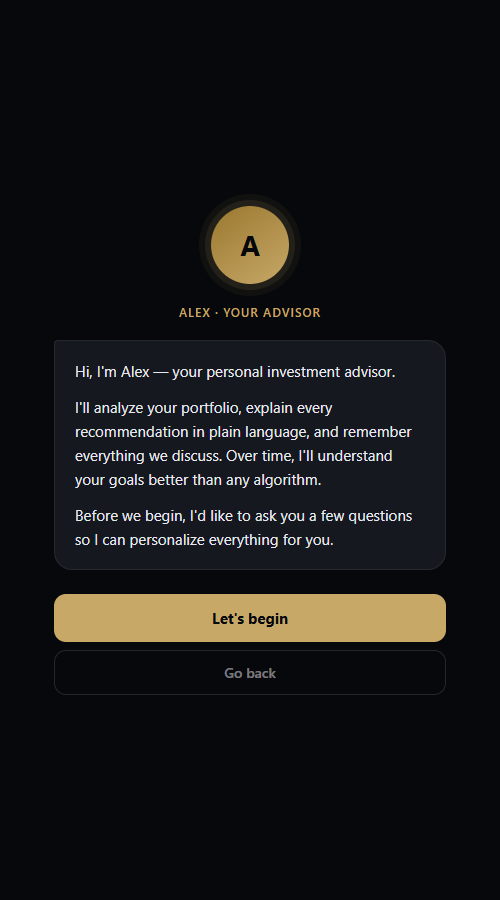
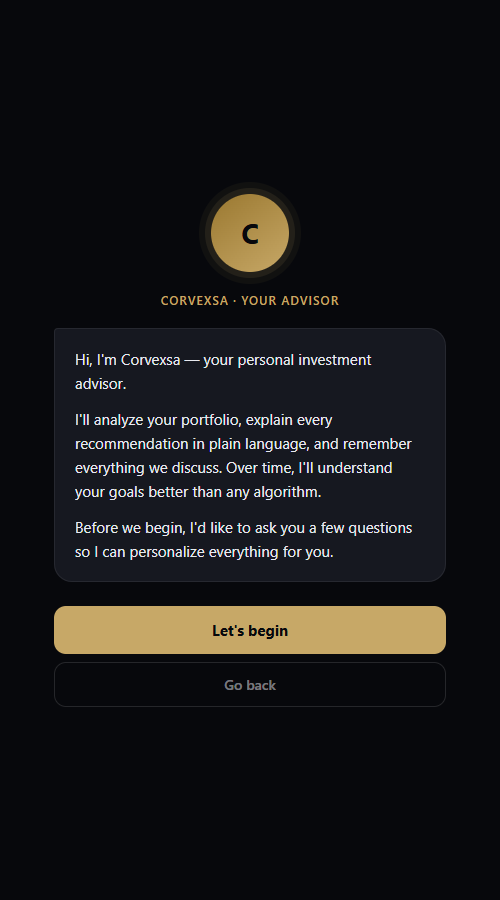
Fix analysis vanishing after run: use strong consistency for Netlify Blobs reads
Blobs reads are eventually consistent by default, so loadAll()'s
read-after-write of the just-stored analysis could return stale null and
re-render the empty state over the fresh results.

Changed region(s): [[0.15, 0.1867, 0.84, 0.6222], [0.09, 0.6533, 0.9, 0.7778], [0.57, 0.2489, 0.6, 0.28]]

diff --git a/promo/tools/compose-music.js b/promo/tools/compose-music.js
@@ -1,0 +1,125 @@
+// Synthesizes the background music bed as a stereo 16-bit WAV — no samples,
+// no downloads, fully rights-free. A minimal dark-electronic progression:
+// warm detuned pads (Am–F–C–G), a soft sub bass, four-on-the-floor kick and
+// offbeat hats. Drums enter with scene 2 and drop out at the CTA so the
+// closing card breathes. Ducking under the voiceover happens later in ffmpeg.
+const fs = require('fs');
+const path = require('path');
+
+const PROMO = path.join(__dirname, '..');
+const timeline = JSON.parse(fs.readFileSync(path.join(PROMO, 'timeline.json'), 'utf8'));
+
+const SR = 44100;
+const TOTAL = timeline.total;
+const N = Math.ceil(TOTAL * SR);
+const BPM = 100;
+const BEAT = 60 / BPM;          // 0.6s
+const BAR = BEAT * 4;           // 2.4s
+
+const drumsIn = timeline.scenes[1].start;                       // "meet"
+const drumsOut = timeline.scenes[timeline.scenes.length - 1].start; // CTA
+
+// chord = { bass, pad: [freqs] } — Am, F, C, G
+const PROG = [
+  { bass: 110.00, pad: [220.00, 261.63, 329.63] },
+  { bass: 87.31,  pad: [174.61, 220.00, 261.63] },
+  { bass: 130.81, pad: [261.63, 329.63, 392.00] },
+  { bass: 98.00,  pad: [196.00, 246.94, 293.66] },
+];
+
+const L = new Float64Array(N);
+const R = new Float64Array(N);
+const TAU = Math.PI * 2;
+
+function addTone(buf, freq, t0, dur, gain, attack, release, detune) {
+  const s0 = Math.max(0, Math.floor(t0 * SR));
+  const s1 = Math.min(N, Math.ceil((t0 + dur) * SR));
+  const f2 = freq * (detune || 1.0);
+  for (let s = s0; s < s1; s++) {
+    const t = s / SR - t0;
+    let env = 1;
+    if (t < attack) env = t / attack;
+    else if (t > dur - release) env = Math.max(0, (dur - t) / release);
+    const ph = s / SR;
+    buf[s] += gain * env * (Math.sin(TAU * freq * ph) + 0.4 * Math.sin(TAU * f2 * ph) + 0.18 * Math.sin(TAU * freq * 2 * ph));
+  }
+}
+
+function addKick(t0, gain) {
+  const s0 = Math.floor(t0 * SR);
+  const dur = 0.16;
+  const s1 = Math.min(N, Math.ceil((t0 + dur) * SR));
+  for (let s = s0; s < s1; s++) {
+    const t = s / SR - t0;
+    const freq = 42 + 78 * Math.exp(-t * 38);      // pitch sweep 120 -> 42 Hz
+    const env = Math.exp(-t * 26);
+    const v = gain * env * Math.sin(TAU * freq * t);
+    L[s] += v; R[s] += v;
+  }
+}
+
+let hatSeed = 1;
+function rand() { hatSeed = (hatSeed * 1103515245 + 12345) & 0x7fffffff; return hatSeed / 0x7fffffff - 0.5; }
+function addHat(t0, gain) {
+  const s0 = Math.floor(t0 * SR);
+  const dur = 0.05;
+  const s1 = Math.min(N, Math.ceil((t0 + dur) * SR));
+  let prev = 0;
+  for (let s = s0; s < s1; s++) {
+    const t = s / SR - t0;
+    const white = rand();
+    const hp = white - prev; prev = white;          // crude one-pole highpass
+    const env = Math.exp(-t * 90);
+    const v = gain * env * hp * 2;
+    L[s] += v * 0.8; R[s] += v * 1.2;               // hats sit slightly right
+  }
+}
+
+// ── pads + bass, bar by bar ─────────────────────────────
+const nBars = Math.ceil(TOTAL / BAR);
+for (let bar = 0; bar < nBars; bar++) {
+  const t0 = bar * BAR;
+  const ch = PROG[bar % PROG.length];
+  // pad triad: root/left, fifth/left, third/right for width
+  addTone(L, ch.pad[0], t0, BAR + 0.4, 0.055, 0.5, 0.7, 1.004);
+  addTone(L, ch.pad[2], t0, BAR + 0.4, 0.042, 0.6, 0.7, 0.997);
+  addTone(R, ch.pad[1], t0, BAR + 0.4, 0.055, 0.5, 0.7, 1.003);
+  addTone(R, ch.pad[0] * 2, t0, BAR + 0.4, 0.020, 0.9, 0.8, 1.005);
+  // sub bass, both channels, gentle pulse on each beat
+  for (let b = 0; b < 4; b++) {
+    addTone(L, ch.bass, t0 + b * BEAT, BEAT * 0.96, 0.075, 0.02, 0.12, 1.0);
+    addTone(R, ch.bass, t0 + b * BEAT, BEAT * 0.96, 0.075, 0.02, 0.12, 1.0);
+  }
+}
+
+// ── drums, only between drumsIn and drumsOut ────────────
+for (let t = Math.ceil(drumsIn / BEAT) * BEAT; t < Math.min(drumsOut, TOTAL); t += BEAT) {
+  addKick(t, 0.34);
+  addHat(t + BEAT / 2, 0.055);
+}
+
+// ── global envelope: fade in, ease drum entry, fade out ──
+for (let s = 0; s < N; s++) {
+  const t = s / SR;
+  let g = 1;
+  if (t < 1.2) g *= t / 1.2;
+  if (t > TOTAL - 3.0) g *= Math.max(0, (TOTAL - t) / 3.0);
+  L[s] *= g; R[s] *= g;
+}
+
+// ── soft-clip safety + write WAV ─────────────────────────
+const pcm = Buffer.alloc(N * 4);
+for (let s = 0; s < N; s++) {
+  const l = Math.tanh(L[s] * 1.1);
+  const r = Math.tanh(R[s] * 1.1);
+  pcm.writeInt16LE(Math.round(l * 32767 * 0.9), s * 4);
+  pcm.writeInt16LE(Math.round(r * 32767 * 0.9), s * 4 + 2);
+}
+const header = Buffer.alloc(44);
+header.write('RIFF', 0); header.writeUInt32LE(36 + pcm.length, 4); header.write('WAVE', 8);
+header.write('fmt ', 12); header.writeUInt32LE(16, 16); header.writeUInt16LE(1, 20);
+header.writeUInt16LE(2, 22); header.writeUInt32LE(SR, 24); header.writeUInt32LE(SR * 4, 28);
+header.writeUInt16LE(4, 32); header.writeUInt16LE(16, 34);
+header.write('data', 36); header.writeUInt32LE(pcm.length, 40);
+fs.writeFileSync(path.join(PROMO, 'music.wav'), Buffer.concat([header, pcm]));
+console.log(`music.wav written: ${TOTAL.toFixed(1)}s, drums ${drumsIn.toFixed(1)}s -> ${drumsOut.toFixed(1)}s`);

diff --git a/promo/timeline.js b/promo/timeline.js
@@ -1,7 +1,7 @@
 window.TIMELINE = {
   "width": 1280,
   "height": 720,
-  "total": 73.036,
+  "total": 44.942,
   "scenes": [
     {
       "id": "hook",
@@ -10,10 +10,10 @@ window.TIMELINE = {
       "imageStyle": "none",
       "headline": "Who watches your portfolio?",
       "sub": "Most investors are on their own. You don't have to be.",
-      "voiceover": "What if a personal wealth advisor watched your portfolio around the clock, and told you exactly why every move matters?",
+      "voiceover": "What if a personal wealth advisor watched your portfolio around the clock?",
       "start": 0,
-      "end": 9.012,
-      "voStart": 0.6
+      "end": 5.342,
+      "voStart": 0.45
     },
     {
       "id": "meet",
@@ -21,12 +21,12 @@ window.TIMELINE = {
       "image": "welcome.png",
       "imageStyle": "wide",
       "kicker": "Introducing",
-      "headline": "Meet AlyInvest",
+      "headline": "Meet Corvexsa",
       "sub": "Your personal AI investment advisor",
-      "voiceover": "Meet AlyInvest. Your personal AI investment advisor. Calm, precise, and entirely on your side.",
-      "start": 8.512,
-      "end": 19.348,
-      "voStart": 9.112
+      "voiceover": "Meet Corvexsa — your personal AI investment advisor.",
+      "start": 4.892,
+      "end": 9.826,
+      "voStart": 5.342
     },
     {
       "id": "connect",
@@ -36,10 +36,10 @@ window.TIMELINE = {
       "kicker": "Your money stays yours",
       "headline": "Read-only. Always.",
       "sub": "Never holds funds. Never executes trades. Only advises.",
-      "voiceover": "Connect your broker in seconds. Read-only, always. AlyInvest never touches your money. It watches, and it advises.",
-      "start": 18.848,
-      "end": 31.604,
-      "voStart": 19.448
+      "voiceover": "Connect your broker in seconds. Read-only, always — Corvexsa never touches your money.",
+      "start": 9.376,
+      "end": 16.782,
+      "voStart": 9.826
     },
     {
       "id": "analysis",
@@ -48,11 +48,11 @@ window.TIMELINE = {
       "imageStyle": "wide",
       "kicker": "Every 24 hours",
       "headline": "A deep review, daily",
-      "sub": "Clear buy, hold, or trim guidance — with the reasoning behind it",
-      "voiceover": "Every twenty-four hours, AlyInvest reviews everything you hold. Clear buy, hold, or trim calls, with share quantities, confidence scores, and plain-language reasoning.",
-      "start": 31.104,
-      "end": 44.82,
-      "voStart": 31.704
+      "sub": "Clear buy, hold, or trim calls — with the reasoning behind them",
+      "voiceover": "Every twenty-four hours, a deep review: clear buy, hold, or trim calls, with exact quantities and the reasoning.",
+      "start": 16.332,
+      "end": 24.914,
+      "voStart": 16.782
     },
     {
       "id": "alerts",
@@ -62,10 +62,10 @@ window.TIMELINE = {
       "kicker": "Always watching",
       "headline": "Vigilance, delivered",
       "sub": "Opportunities surfaced. Risks flagged early.",
-      "voiceover": "AlyInvest scans the market for what you might otherwise miss, and alerts your phone when something material changes.",
-      "start": 44.32,
-      "end": 53.308,
-      "voStart": 44.92
+      "voiceover": "It scans the market, and alerts your phone the moment something material changes.",
+      "start": 24.464,
+      "end": 30.334,
+      "voStart": 24.914
     },
     {
       "id": "conversation",
@@ -75,23 +75,23 @@ window.TIMELINE = {
       "kicker": "No dashboards to decode",
       "headline": "One conversation",
       "sub": "An advisor that remembers you, your goals, your preferences",
-      "voiceover": "No dashboards to decode. Just one conversation with an advisor who remembers your goals, like texting your own wealth manager.",
-      "start": 52.808,
-      "end": 63.452,
-      "voStart": 53.408
+      "voiceover": "No dashboards. Just one conversation, with an advisor who remembers you.",
+      "start": 29.884,
+      "end": 36.714,
+      "voStart": 30.334
     },
     {
       "id": "cta",
       "template": "cta",
       "image": "",
       "imageStyle": "none",
-      "headline": "AlyInvest",
+      "headline": "Corvexsa",
       "sub": "Smarter investing starts with a conversation.",
-      "voiceover": "Smarter investing starts with a conversation. Start yours with AlyInvest today.",
-      "disclaimer": "AlyInvest provides analysis only. It never executes trades or holds funds. Investing involves risk, including possible loss of principal. Not financial advice.",
-      "start": 62.952,
-      "end": 73.036,
-      "voStart": 63.552
+      "voiceover": "Smarter investing starts with a conversation. Start yours at Corvexsa dot com.",
+      "disclaimer": "Corvexsa provides analysis only. It never executes trades or holds funds. Investing involves risk, including possible loss of principal. Not financial advice.",
+      "start": 36.264,
+      "end": 44.942,
+      "voStart": 36.714
     }
   ]
 };

diff --git a/promo/tools/build-video.js b/promo/tools/build-video.js
@@ -46,32 +46,26 @@ run([
   '-c:a', 'pcm_s16le', path.join(PROMO, '_vo.wav'),
 ], 'voiceover placement');
 
-// ── 3. Ambient pad: three soft detuned tones, slow tremolo, dark lowpass ──
-run([
-  '-f', 'lavfi', '-i', `sine=frequency=55:sample_rate=44100:duration=${total}`,
-  '-f', 'lavfi', '-i', `sine=frequency=110.5:sample_rate=44100:duration=${total}`,
-  '-f', 'lavfi', '-i', `sine=frequency=164.8:sample_rate=44100:duration=${total}`,
-  '-filter_complex',
-  '[0:a]volume=0.5[a0];[1:a]volume=0.34[a1];[2:a]volume=0.22[a2];' +
-  '[a0][a1][a2]amix=inputs=3:normalize=0,' +
-  'tremolo=f=0.13:d=0.55,lowpass=f=520,' +
-  `afade=t=in:d=2.5,afade=t=out:st=${(total - 3.5).toFixed(2)}:d=3.5,volume=0.05[pad]`,
-  '-map', '[pad]', '-c:a', 'pcm_s16le', path.join(PROMO, '_pad.wav'),
-], 'ambient pad');
+// ── 3. Background music (synthesized by compose-music.js) ──
+const { execFileSync: exec2 } = require('child_process');
+exec2(process.execPath, [path.join(__dirname, 'compose-music.js')], { stdio: 'inherit' });
 
-// ── 4. Final mux ────────────────────────────────────────
+// ── 4. Final mux: music auto-ducks under the narration ──
 run([
   '-i', path.join(PROMO, '_video.mp4'),
   '-i', path.join(PROMO, '_vo.wav'),
-  '-i', path.join(PROMO, '_pad.wav'),
+  '-i', path.join(PROMO, 'music.wav'),
   '-filter_complex',
-  '[1:a][2:a]amix=inputs=2:duration=first:normalize=0,loudnorm=I=-16:TP=-1.5:LRA=11[a]',
+  '[1:a]asplit=2[vo][sc];' +
+  '[2:a]volume=0.85[m];' +
+  '[m][sc]sidechaincompress=threshold=0.02:ratio=7:attack=60:release=450[duck];' +
+  '[vo][duck]amix=inputs=2:duration=first:normalize=0,loudnorm=I=-16:TP=-1.5:LRA=11[a]',
   '-map', '0:v', '-map', '[a]',
   '-c:v', 'copy', '-c:a', 'aac', '-b:a', '192k',
   '-shortest', OUT,
-], 'final mux');
+], 'final mux (sidechain-ducked music)');
 
-['_video.mp4', '_vo.wav', '_pad.wav'].forEach(f => fs.rmSync(path.join(PROMO, f), { force: true }));
+['_video.mp4', '_vo.wav'].forEach(f => fs.rmSync(path.join(PROMO, f), { force: true }));
 
 const stat = fs.statSync(OUT);
 console.log(`\nDONE: ${OUT} (${(stat.size / 1024 / 1024).toFixed(1)} MB, ${total.toFixed(1)}s)`);

diff --git a/promo/tools/generate-audio.js b/promo/tools/generate-audio.js
@@ -14,37 +14,37 @@ const SCENES = [
   { id: 'hook', template: 'hook', image: '', imageStyle: 'none',
     headline: 'Who watches your portfolio?',
     sub: "Most investors are on their own. You don't have to be.",
-    voiceover: 'What if a personal wealth advisor watched your portfolio around the clock, and told you exactly why every move matters?' },
+    voiceover: 'What if a personal wealth advisor watched your portfolio around the clock?' },
   { id: 'meet', template: 'showcase', image: 'welcome.png', imageStyle: 'wide',
     kicker: 'Introducing',
-    headline: 'Meet AlyInvest',
+    headline: 'Meet Corvexsa',
     sub: 'Your personal AI investment advisor',
-    voiceover: 'Meet AlyInvest. Your personal AI investment advisor. Calm, precise, and entirely on your side.' },
+    voiceover: 'Meet Corvexsa — your personal AI investment advisor.' },
   { id: 'connect', template: 'showcase', image: 'connect.png', imageStyle: 'phone',
     kicker: 'Your money stays yours',
     headline: 'Read-only. Always.',
     sub: 'Never holds funds. Never executes trades. Only advises.',
-    voiceover: 'Connect your broker in seconds. Read-only, always. AlyInvest never touches your money. It watches, and it advises.' },
+    voiceover: 'Connect your broker in seconds. Read-only, always — Corvexsa never touches your money.' },
   { id: 'analysis', template: 'showcase', image: 'conversation.png', imageStyle: 'wide',
     kicker: 'Every 24 hours',
     headline: 'A deep review, daily',
-    sub: 'Clear buy, hold, or trim guidance — with the reasoning behind it',
-    voiceover: 'Every twenty-four hours, AlyInvest reviews everything you hold. Clear buy, hold, or trim calls, with share quantities, confidence scores, and plain-language reasoning.' },
+    sub: 'Clear buy, hold, or trim calls — with the reasoning behind them',
+    voiceover: 'Every twenty-four hours, a deep review: clear buy, hold, or trim calls, with exact quantities and the reasoning.' },
   { id: 'alerts', template: 'showcase', image: 'analysis.png', imageStyle: 'phone',
     kicker: 'Always watching',
     headline: 'Vigilance, delivered',
     sub: 'Opportunities surfaced. Risks flagged early.',
-    voiceover: 'AlyInvest scans the market for what you might otherwise miss, and alerts your phone when something material changes.' },
+    voiceover: 'It scans the market, and alerts your phone the moment something material changes.' },
   { id: 'conversation', template: 'showcase', image: 'advisor-intro.png', imageStyle: 'phone',
     kicker: 'No dashboards to decode',
     headline: 'One conversation',
     sub: 'An advisor that remembers you, your goals, your preferences',
-    voiceover: 'No dashboards to decode. Just one conversation with an advisor who remembers your goals, like texting your own wealth manager.' },
+    voiceover: 'No dashboards. Just one conversation, with an advisor who remembers you.' },
   { id: 'cta', template: 'cta', image: '', imageStyle: 'none',
-    headline: 'AlyInvest',
+    headline: 'Corvexsa',
     sub: 'Smarter investing starts with a conversation.',
-    voiceover: 'Smarter investing starts with a conversation. Start yours with AlyInvest today.',
-    disclaimer: 'AlyInvest provides analysis only. It never executes trades or holds funds. Investing involves risk, including possible loss of principal. Not financial advice.' },
+    voiceover: 'Smarter investing starts with a conversation. Start yours at Corvexsa dot com.',
+    disclaimer: 'Corvexsa provides analysis only. It never executes trades or holds funds. Investing involves risk, including possible loss of principal. Not financial advice.' },
 ];
 
 const LEAD_IN = 0.45;   // scene visible before narration starts